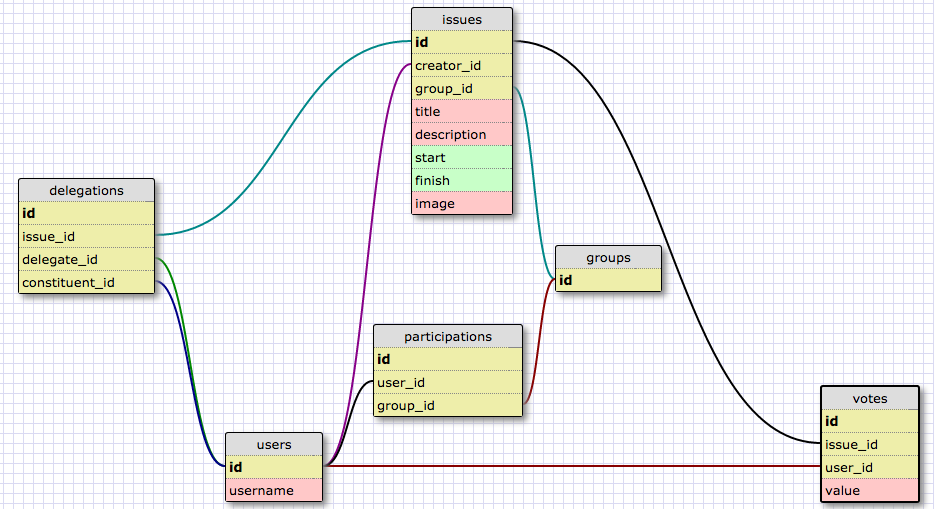
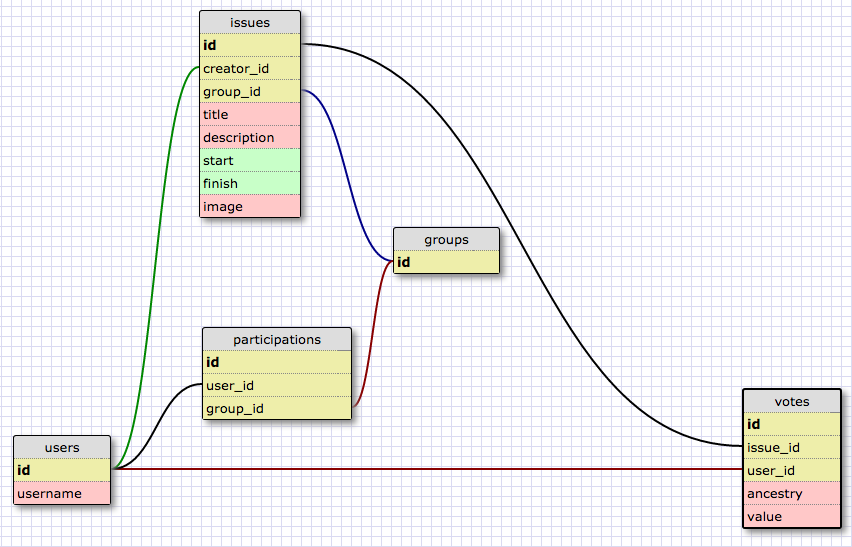
updated with new schema

diff --git a/README.md b/README.md
@@ -1,5 +1,5 @@
 # syndicate
 
-A liquid voting app...
+A live liquid voting app...
 
 ![Our Schema](schema.png)
